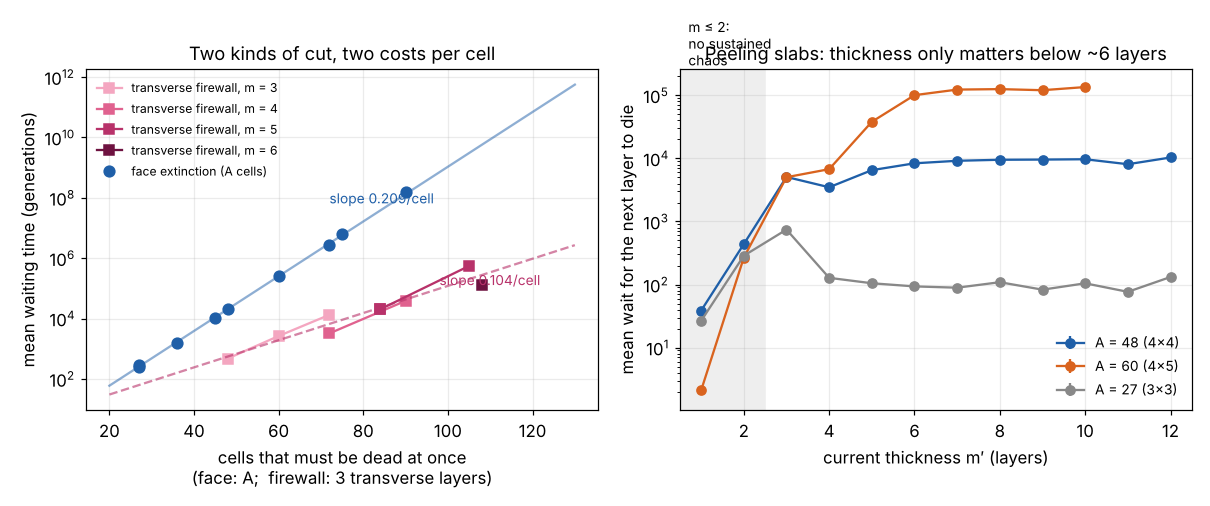
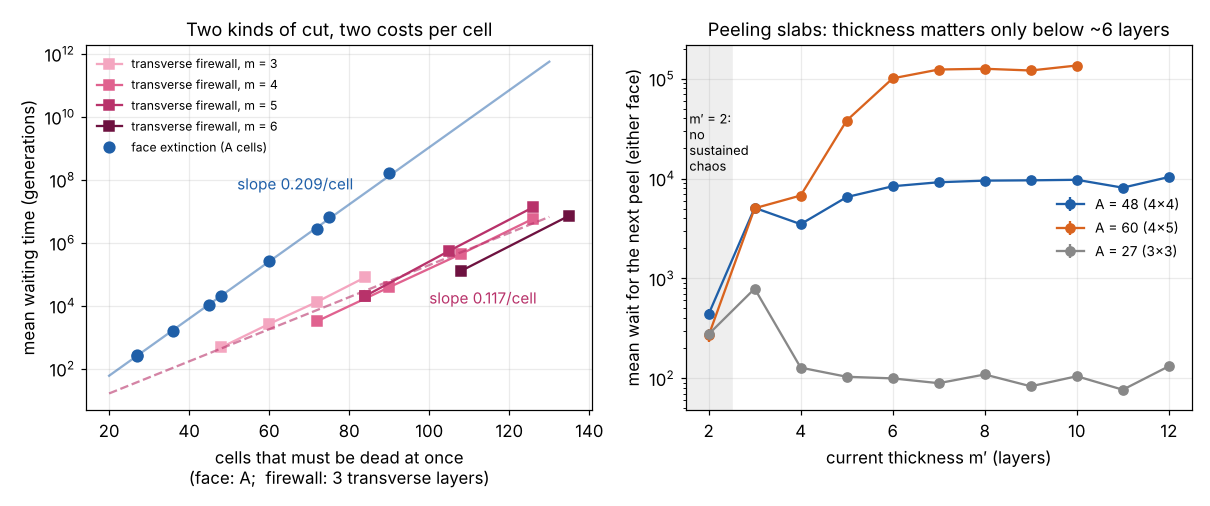
Peeling study: face law, cuts, symmetric effective area, cube series account
Claude-Session: https://claude.ai/code/session_019L788JanYoS8q1kKh6fDt6

diff --git a/research/peeling/cubes_report.py b/research/peeling/cubes_report.py
@@ -29,8 +29,11 @@ print(f'sym law: ln tau = {a:.3f} + {b:.5f} A  (se {math.sqrt(cov[0,0]):.3f}, {m
       f'slab c = 0.2088 -> A_eff = A / {0.2088 / b:.2f}')
 
 
+VF = 1.5   # vertex-centred symmetric soups outlive cube-centred ones of equal face area by 1.47x (R=28 vs 27) and 1.54x (32 vs 31)
+
+
 def tau(Rv, vertex):
-    return math.exp(a + b * face_area(Rv, vertex))
+    return math.exp(a + b * face_area(Rv, vertex)) * (VF if vertex else 1.0)
 
 
 res_rows, life_rows = [], []
@@ -65,6 +68,12 @@ for n in (16, 17):   # predictions only
     pred = sum(tau(Rv, vertex) for Rv in range(R0, 20, -2))
     life_rows.append(dict(n=n, R0=R0, area0=face_area(R0, vertex), observed='', predicted_mean=round(pred),
                           first_plateau_share=round(tau(R0, vertex) / pred, 3), ratio=''))
+rng = np.random.default_rng(1)
+for r in life_rows:
+    n = r['n']; v = n % 2 == 0
+    L = sum(rng.exponential(tau(Rv, v), 200000) for Rv in range(r['R0'], 20, -2))
+    r['pred_5pct'], r['pred_95pct'] = [round(x) for x in np.quantile(L, [0.05, 0.95])]
+    r['obs_quantile'] = round(float((L < r['observed']).mean()), 3) if r['observed'] != '' else ''
 for name, rr in (('cube_residence.csv', res_rows), ('cube_lifetime.csv', life_rows)):
     with open(os.path.join(HERE, name), 'w', newline='') as fh:
         wr = csv.DictWriter(fh, fieldnames=list(rr[0])); wr.writeheader(); wr.writerows(rr)

diff --git a/research/peeling/figures.py b/research/peeling/figures.py
@@ -72,7 +72,7 @@ for (n1, n2), c in ((('4', '4'), '#1f5fa8'), (('4', '5'), '#d9631e'), (('3', '3'
                     fmt='o-', color=c, ms=6, label=f'A = {3*int(n1)*int(n2)} ({n1}×{n2})')
 a2.set_yscale('log'); a2.set_xlabel("current thickness m′ (layers)"); a2.set_ylabel('mean wait for the next peel (either face)')
 a2.set_title('Peeling slabs: thickness matters only below ~6 layers', fontsize=12)
-a2.axvspan(1.5, 2.5, color='#eeeeee', zorder=0); a2.text(1.6, 1.5e5, 'm′ = 2:\nno sustained\nchaos', fontsize=9)
-a2.legend(fontsize=9, frameon=False, loc='lower right'); a2.grid(alpha=0.25); a2.set_xlim(1.5, 12.5)
+a2.axvspan(1.5, 2.5, color='#eeeeee', zorder=0); a2.text(1.58, 1.2e4, 'm′ = 2:\nno\nsustained\nchaos', fontsize=8.5)
+a2.legend(fontsize=9, frameon=False, loc='center right'); a2.grid(alpha=0.25); a2.set_xlim(1.5, 12.5)
 fig.tight_layout(); fig.savefig(os.path.join(FIG, 'peel_cuts.png'), dpi=110)
 print('ok')

diff --git a/research/NOTEBOOK.md b/research/NOTEBOOK.md
@@ -279,3 +279,59 @@ Code, commands and `rules.csv`: `research/phase/README.md`. Figures: `research/f
   lifes on their own, and so is their union.
 - **[measured]** the smallest oscillator (P2.6a, "propeller") = one fixed triangle, and in the
   next layer the hexagon's two alternate triangles taking turns: a blinking half-star.
+
+## 2026-11-12 — how chaos dies: one face law, two kinds of cut (peeling agent)
+
+Code, tables, method: `research/peeling/README.md`. New tool `peeling/rep.c`: 64·W bit-sliced replicas on any finite
+cell graph, bit-exact vs gump (`python3 research/peeling/validate.py`). Key new geometry: slabs on a **skewed in-plane
+torus** (face area A = 3·N1·N2 independent of thickness m; on gump's cubic torus A ≥ 3(m+3)², and such faces never peel).
+Runs are 512 per batch unless stated (p = 0.4 slabs, 0.3 octahedra); censored runs enter through exposure-time MLEs;
+CIs are 95% (χ²). Figures: `research/figures/peel_face_law.png`, `research/figures/peel_cuts.png`.
+
+**Faces.**
+- **[measured]** Flat faces (slab, m = 8, no edges) die at **τ_face = exp[(−0.09 ± 0.06) + (0.209 ± 0.002)·A]**
+  generations, A = cells in the face layer; 8 near-square tori, A = 27–90, τ from 2.8×10² to 1.6×10⁸; residuals ≤ 0.18 in
+  ln τ. Waiting times are exponential for A ≥ 36 (CV 0.96–1.05, KS p 0.5–0.96); not for A ≤ 27 (transient-dominated).
+  Prefactor ≈ 1 generation. Independent of thickness once m ≥ 7: first peel at A = 48 is 9.9, 10.4, 10.3, 10.4, 10.4 ×10³
+  for m = 7, 8, 9, 10, 12. Area, not shape: 4×4 and 3×5 tori agree; elongated ones (2×8, 3×8) die sooner, by transverse
+  firewalls (below). (`python3 research/peeling/slabs.py 4 4 8 400000`; table `peeling/slab_area.csv`.)
+- **[measured]** **Octahedral faces obey the slab law; edges and corners do not dominate.** Asymmetric soups, first peel
+  after t0 = 200, ×8 faces: τ_face = 1.3×10⁴, 7.3×10⁵, 7.1×10⁷ at A = 45, 63, 84 (R = 9, 11, 13) vs slab law 1.1×10⁴,
+  4.8×10⁵, 3.9×10⁷ — octahedral faces are 1.2–1.8× *more* robust. The per-face hazard over every hull state of every
+  history (pooled, faces of A = 14–84) follows the same line. First peels are exponential (CV 1.06 at R = 11).
+  (`python3 research/peeling/octa.py 11 0.3 1000000; python3 research/peeling/octa_hazard.py; python3 research/peeling/octa_report.py`.)
+- **[measured]** Once the hull is filled, density does not matter: R = 11 first-peel means 0.91, 1.08, 1.00, 1.04 ×10⁵ for
+  p = 0.3, 0.4, 0.5, 0.6. Below that the chaos never fills the hull: p = 0.2 peels from small faces (median A 35, CV 4.3),
+  p = 0.15 dies in the transient in 93% of soups.
+- **[measured]** **O_h symmetry: same law, effective area A/7.7, not A/6.** Symmetric soups (cube-centred, R = 23–35;
+  128–256 runs): ln τ = −0.14 + 0.0272·A over per-state hazards with A ≥ 198, i.e. A_eff = A/(7.7 ± 0.2) against the slab
+  constant. Vertex-centred symmetric soups (as even closed cubes) live 1.5× longer at equal face area (R = 28 vs 27: 5.8 vs
+  4.0 ×10³; 32 vs 31: 8.2 vs 5.4 ×10⁴). **[conjecture]** the extra loss beyond A/6 is the phase study's depleted mirror-plane cells.
+- **[measured]** Time-averaged occupancy of the side-11 cube's outer face over its 3000-gen plateau (150 samples, 8 faces):
+  interior 0.47, edge rows 0.38, corners 0.22 — **not a ring**; the viewer's ring was one snapshot. A face dies suddenly:
+  90–230 live cells until ≈10 generations before extinction, last survivors 2–3 rows from the edge (side 11 at gen 3289,
+  side 13 at 130,191) (`python3 research/peeling/faceocc.py OUT 200 3200 20 -- --cube 11`, `python3 research/peeling/lastcells.py 3200 3300 27 -- --cube 11`).
+
+**Thin slabs and the cheapest cut** (the lead's hypothesis).
+- **[measured]** m′ ≤ 2 sustains no chaos (≤ 10³ gens at any A tested). For m = 3–6, slabs die by a **transverse T3 firewall**
+  with ln τ_fw = −1.4 + 0.54·N·m + 0.22·N (14 batches, N = 4–7, rms residual 0.27), i.e. ≈0.12 per cell of the 3-layer
+  band that must die. Faces cost 0.209 per cell — **no single constant per dead cell** (ratio ≈ 0.55), though per cell of
+  cross-section the firewall costs ≈0.36 vs 0.21. The cheapest-cut picture holds qualitatively: the first event switches from
+  firewall to peel at m ≈ N (N = 4: firewall first in 397/512 at m = 4, 175 at m = 5, 35 at m = 6; N = 5: 426 at m = 5, 93 at m = 6)
+  (`peeling/slab_fw.csv`). For an octahedron the faces are its smallest {111} sections, so peeling wins.
+- **[measured]** A peeling slab does not die "at" a critical thickness: the wait per peel is flat for m′ ≥ 6–7, falls 2–20× at
+  m′ = 4–5 as the firewall channel opens, and histories end at m′ = 2–4 (A = 48: 117 extinct, 116/172/94 freeze at m′ = 2/3/4),
+  after a transverse firewall in 510/512 (`peeling/slab_thickness.csv`, `slab_end.csv`).
+
+**Bulk.**
+- **[measured]** Whole-torus soups (no faces) die by sudden global freeze or extinction, not by firewalls (0/512 and 6/351
+  had a firewall first): mean life 1.18 [1.08, 1.28] ×10³ at N = 4, 8.7 [7.9, 9.7] ×10⁵ at N = 5, none of 512 within 10⁶ at
+  N = 6, 7, 8 (mean > 1.7×10⁸). The bulk channel matters only below ≈ 600 cells (`python3 research/peeling/torus.py 5 0.3 1000000`).
+
+**Closed cubes.**
+- **[measured]** With nothing fitted to the cubes, the symmetric-soup law (residence at hull radius R = exponential with mean
+  τ_sym(A(R)), ×1.5 for even n) accounts for the series: the observed lifetimes of n = 11–15 sit at quantiles 0.37, 0.45, 0.33,
+  0.93, 0.73 of the predicted distributions, and the 24 residence times / predicted means are consistent with Exp(1) (KS p = 0.71).
+  The first plateau is 68–80% of the expected life, so single cubes scatter by ~3×. The growth is exp(c·A_eff) with A ∝ n²:
+  ln τ ≈ quadratic in n, as the first notebook entry guessed (`python3 research/peeling/cubes_report.py`; `peeling/cube_lifetime.csv`).
+- **[conjecture]** n = 16: mean 2.4×10⁸, 90% interval [3.9×10⁷, 6.3×10⁸]; n = 17: ≈6×10⁹.
